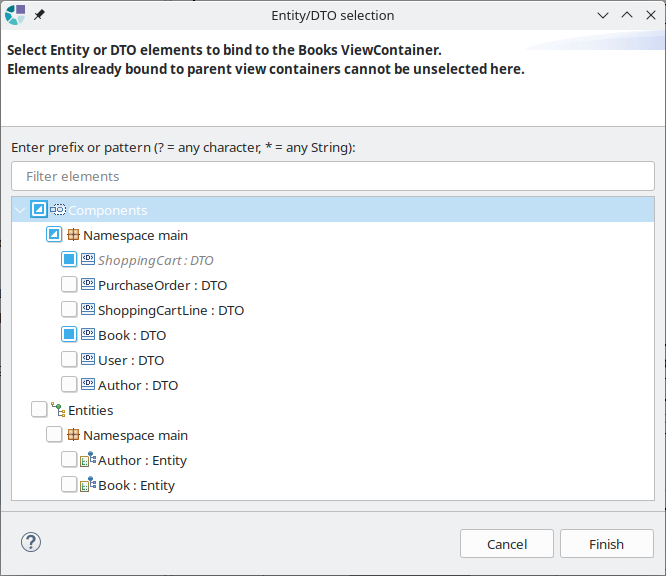
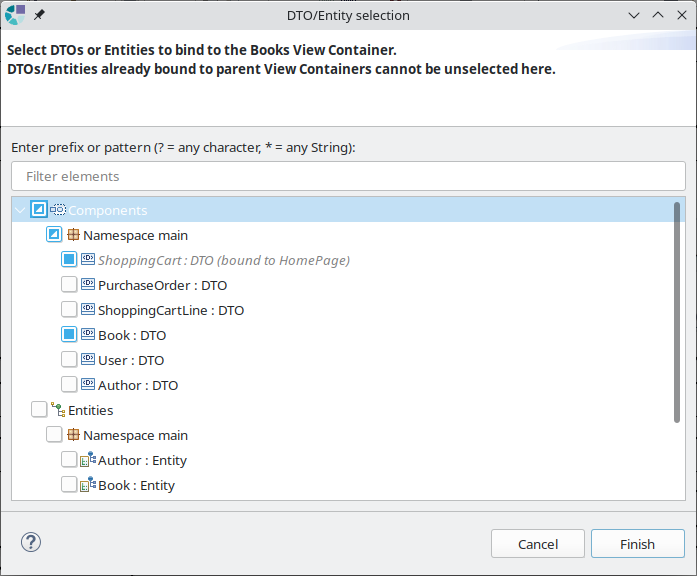
[SAFRAN-1174] Cinematic - ViewContainer Databinding dialog - Display the ViewContainer name for already bound StructuredTypes the selection tree

diff --git a/designs/cinematic/plugins/org.obeonetwork.dsl.cinematic.design/src/org/obeonetwork/dsl/cinematic/design/services/CinematicBindingServices.java b/designs/cinematic/plugins/org.obeonetwork.dsl.cinematic.design/src/org/obeonetwork/dsl/cinematic/design/services/CinematicBindingServices.java
@@ -122,7 +122,17 @@ public class CinematicBindingServices {
 		wizard.setTreeSelectMode(SelectMode.PICK_ANY);
 		
 		StructuredTypeLabelsSwitch structuredTypeLabelsSwitch = new StructuredTypeLabelsSwitch();
-		wizard.setCustomLabelProvider(element -> structuredTypeLabelsSwitch.getLabel((EObject) element));
+		wizard.setCustomLabelProvider(wrappedObject -> {
+			String label = structuredTypeLabelsSwitch.getLabel((EObject) wrappedObject);
+			if(alwaysSelectedElements.contains(wrappedObject)) {
+				label += bindingRegistry.getBindingInfos().stream()//
+					.filter(bindingInfo -> bindingInfo.getRight() == wrappedObject)//
+					.map(BindingInfo::getLeft)//
+					.map(CinematicLabelServices::getCinematicLabel)//
+					.collect(joining(", ", " (bound to ", ")"));
+			}
+			return label;
+		});
 		
         if(wizard.open() == Window.OK) {
         	Set<StructuredType> selectedElements = wizard.getSelectedObjects().stream().map(StructuredType.class::cast).collect(toSet());
@@ -298,7 +308,7 @@ public class CinematicBindingServices {
 		wizard.setTreeSelectMode(SelectMode.PICK_ANY);
 		
 		StructuredTypeLabelsSwitch structuredTypeLabelsSwitch = new StructuredTypeLabelsSwitch();
-		wizard.setCustomLabelProvider(element -> structuredTypeLabelsSwitch.getLabel((EObject) element));
+		wizard.setCustomLabelProvider(wrappedObject -> structuredTypeLabelsSwitch.getLabel((EObject) wrappedObject));
 		
         if(wizard.open() == Window.OK) {
         	

diff --git a/designs/environment/plugins/org.obeonetwork.dsl.environment.design/src/org/obeonetwork/dsl/environment/design/wizards/ISObjectSelectionWizardPage.java b/designs/environment/plugins/org.obeonetwork.dsl.environment.design/src/org/obeonetwork/dsl/environment/design/wizards/ISObjectSelectionWizardPage.java
@@ -149,7 +149,7 @@ public class ISObjectSelectionWizardPage extends AbstractSelectionWizardPage {
 	
     /**
      * Sets the ISObjectCustomLabelProvider. If ISObjectCustomLabelProvider.getText returns
-     * null or a blank string, or if the customLabelProvider is set to null, the text label
+     * null or an empty string, or if the customLabelProvider is set to null, the text label
      * generation falls back to the default label provider.
      * 
      * @param customLabelProvider
@@ -533,7 +533,7 @@ public class ISObjectSelectionWizardPage extends AbstractSelectionWizardPage {
     }
     
     public static interface ISObjectCustomLabelProvider {
-    	 public String getText(Object element);
+    	 public String getText(Object wrappedObject);
     }
 
     private class ISObjectSelectionLabelProvider extends LabelProvider implements IColorProvider, IFontProvider {
@@ -556,7 +556,7 @@ public class ISObjectSelectionWizardPage extends AbstractSelectionWizardPage {
                 if(customLabelProvider != null) {
                 	text = customLabelProvider.getText(wrappedObject);
                 }
-                if(text == null || text.isBlank()) {
+                if(text == null || text.isEmpty()) {
     				text = defaultAdapterFactoryLabelProvider.getText(wrappedObject);
                 }
             }
